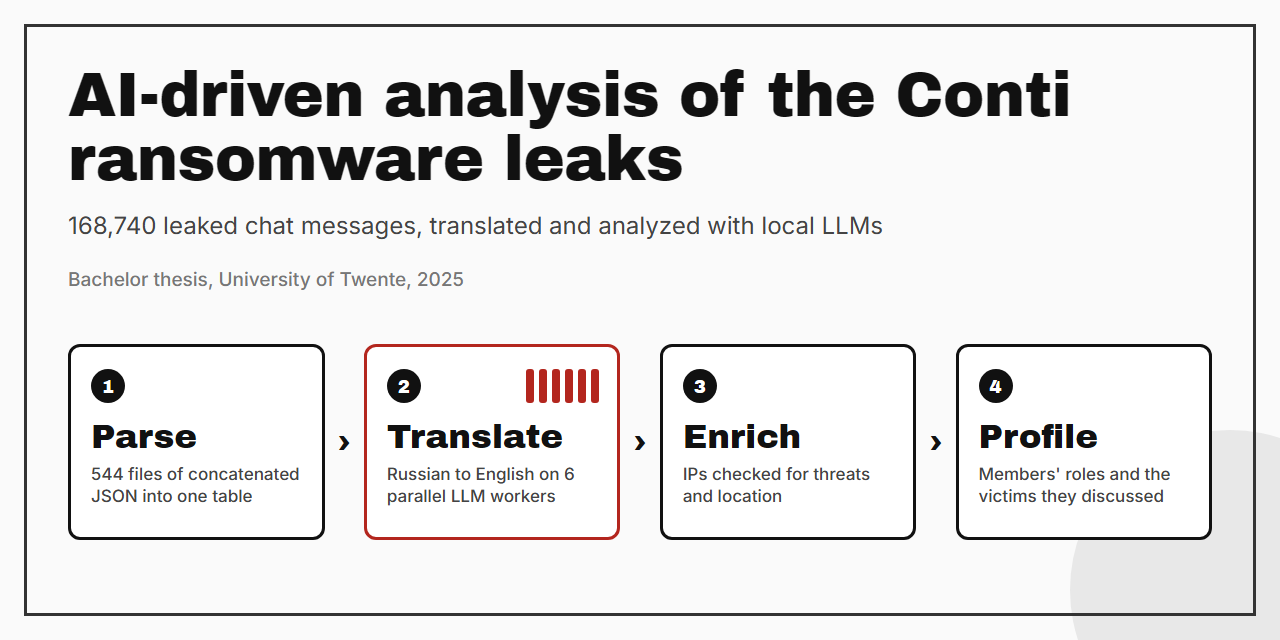
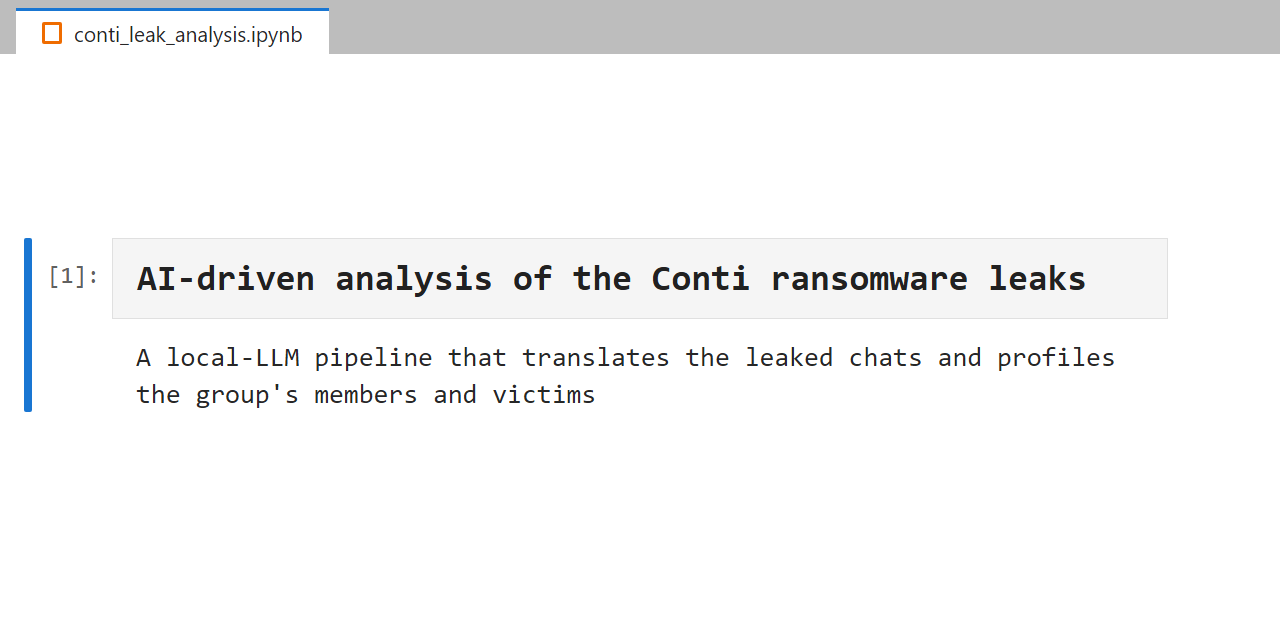
docs: update readme images

diff --git a/README.md b/README.md
@@ -1,4 +1,4 @@
-![AI-driven analysis of the Conti ransomware leaks: parse, translate, enrich, profile](assets/banner.png)
+![A JupyterLab notebook cell with the project's name typed into the input and a one-line description of the pipeline as its output](assets/banner.png)
 
 # AI-driven analysis of the Conti ransomware leaks
 
@@ -11,9 +11,11 @@ Solo project, University of Twente • Research Project module (12) • April to
 
 ## Results / Demo
 
-![Four stages with their run times: parse 2.7 s, translate about 45 h, enrich about 2 h, profile about 12 h](assets/s1-stages.png)
+![Animated tqdm progress bars for parsing, translation, the VirusTotal and GeoIP lookups, IP labeling and the victim pass fill one after another under a bar for the full run](assets/run.gif)
 
-![The main results of the thesis](assets/s4-results.png)
+![Two gemma3:27b outputs: a victim row for Alter with a $200,000 ransom and a threatening tone, and an IP labeled malware_host with confidence 90](assets/answers.png)
+
+![Stacked bars that split each model's hand-graded translations into 3, 2, 1 and 0 points, with gemma3:12b ahead on full scores and lowest on zero-point ones](assets/scores.png)
 
 The pipeline took the leak from broken JSON files to English chats, IP threat data, profiles of the most active members and a table of potential victims. The whole run took about 60 hours on the university's JupyterLab server.
 
@@ -34,13 +36,13 @@ The pipeline took the leak from broken JSON files to English chats, IP threat da
 
 The pipeline is three Python modules in `Agents/`, which two Jupyter notebooks import and run on a JupyterLab server. The modules pass pandas tables and CSV files to each other, and every LLM call goes to models that Ollama serves locally.
 
-The leaked chats came as files of JSON objects written back to back, so `json.loads` fails on them. `ParseAgent.py` puts a comma between every `}{` with a regex, wraps each file in brackets and loads all the messages into one pandas table.
+![A graph of the JupyterLab server, where the two notebooks run the three modules and Ollama serves gemma3:12b and gemma3:27b. AnalyzeAgent.py also reads GeoLite2 and reaches VirusTotal outside the server through MSTICPy.](assets/architecture.png)
 
-![The concatenated JSON before parsing and the pandas table after it](assets/s2-parsing.png)
+The leaked chats came as files of JSON objects written back to back, so `json.loads` fails on them. `ParseAgent.py` puts a comma between every `}{` with a regex, wraps each file in brackets and loads all the messages into one pandas table.
 
 `TranslateAgent.py` translates the messages from Russian to English with gemma3:12b and saves each translation as soon as it's done, so a crashed run resumes where it stopped. Messages that are only links, numbers or symbols are skipped, and the most common phrases are translated once and reused. The rest go through the model on parallel workers, each with its neighbors in the chat as context. Under that load the model sometimes returned repeated or invented text, so a filter retries outputs with the wrong length or leftover Cyrillic.
 
-![Translation model scores, the skipped messages and the anomaly filter](assets/s3-translation.png)
+![Four Russian chat messages with their English meaning, each followed by a garbled translation and the filter rule that caught it](assets/filter.png)
 
 `AnalyzeAgent.py` pulls IP addresses, URLs, email addresses and crypto wallets out of the messages with regexes and saves each kind to its own table. It sends every IP through MSTICPy to VirusTotal for threat data and to the GeoLite2 database for location.
 
